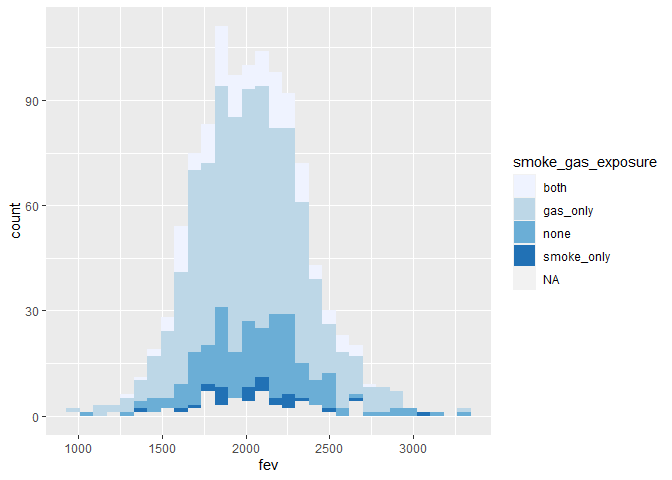
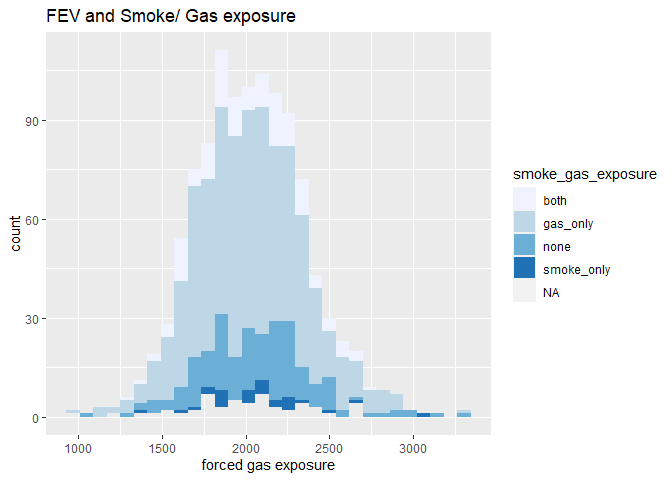
Final Commit https://github.com/USCbiostats/PM566/issues/60

diff --git a/Assignment_2/README.md b/Assignment_2/README.md
@@ -227,12 +227,14 @@ ggplot(chs, aes(x= bmi, y= fev, color= townname)) + geom_point() + facet_wrap(~ 
 
     ## Warning: Removed 95 rows containing missing values (geom_point).
 
-![](README_files/figure-gfm/unnamed-chunk-25-1.png)<!-- --> \### 2.
-Stacked Histogram of FEV by BMI category and FEV by smoke/gas exposure.
-Use different color schemes than the ggplot default.
+![](README_files/figure-gfm/unnamed-chunk-25-1.png)<!-- -->
+
+Forced air exposure is clustered around a lower BMI.
+
+### 2. Stacked Histogram of FEV by BMI category and FEV by smoke/gas exposure. Use different color schemes than the ggplot default.
 
 ``` r
-ggplot(chs, aes(x=fev, fill= obesity_level)) + geom_histogram() + scale_fill_brewer()
+ggplot(chs, aes(x=fev, fill= obesity_level)) + geom_histogram() + scale_fill_brewer() + labs( title= "FEV and BMI", x= "Forced expiratory volume")
 ```
 
     ## `stat_bin()` using `bins = 30`. Pick better value with `binwidth`.
@@ -242,7 +244,7 @@ ggplot(chs, aes(x=fev, fill= obesity_level)) + geom_histogram() + scale_fill_bre
 ![](README_files/figure-gfm/unnamed-chunk-26-1.png)<!-- -->
 
 ``` r
-ggplot(chs, aes(x=fev, fill= smoke_gas_exposure)) + geom_histogram() + scale_fill_brewer()
+ggplot(chs, aes(x=fev, fill= smoke_gas_exposure)) + geom_histogram() + scale_fill_brewer() + labs( title= "FEV and Smoke/ Gas exposure", x="forced gas exposure" )
 ```
 
     ## `stat_bin()` using `bins = 30`. Pick better value with `binwidth`.
@@ -251,15 +253,21 @@ ggplot(chs, aes(x=fev, fill= smoke_gas_exposure)) + geom_histogram() + scale_fil
 
 ![](README_files/figure-gfm/unnamed-chunk-26-2.png)<!-- -->
 
+Forced gas exposer is higher for individuals exposed to both gas and
+smoke, and are underwight.
+
 ### 3. Barchart of BMI by smoke/gas exposure.
 
 ``` r
 ggplot(chs, aes(x= obesity_level, fill= smoke_gas_exposure )) +geom_bar() + labs(title= "Obesity level by Smoke, Gas or Both", x="Obesity category", y="Count")
 ```
 
-![](README_files/figure-gfm/unnamed-chunk-27-1.png)<!-- --> \### 4.
-Statistical summary graphs of FEV by BMI and FEV by smoke/gas exposure
-category
+![](README_files/figure-gfm/unnamed-chunk-27-1.png)<!-- -->
+
+individuals with normal weight have higher smoke andgs exposure as well
+as gas only.
+
+### 4. Statistical summary graphs of FEV by BMI and FEV by smoke/gas exposure category
 
 ``` r
 ggplot(chs, aes(x= obesity_level, y= fev, fill= obesity_level))+ geom_boxplot() + labs(title= "Forced Expiratory Volume by BMI", x= "obesity catergory", y= "forced expiratory level")
@@ -277,26 +285,13 @@ ggplot(chs, aes(x=smoke_gas_exposure, y= fev, fill= smoke_gas_exposure)) + geom_
 
 ![](README_files/figure-gfm/unnamed-chunk-28-2.png)<!-- -->
 
-### A leaflet map showing the concentrations of PM2.5 mass in each of the CHS communities.
+FEV is more variedd among normal weight individuals while obese
+individuals have higher average FEV. Very little difference between FEV
+and smoke/gas exposure. Gas only has a wider spread and mor outliers
+than the others.
 
 ``` r
 library(leaflet)
-```
-
-``` r
-pm2.pal <- colorNumeric(c('darkgreen','goldenrod','brown'), domain=chs$pm25_mass)
-```
-
-``` r
-Pm25mass_map <- leaflet(chs) %>%
-      addProviderTiles('CartoDB.Positron') %>% 
-      addCircles(
-    lat = ~lat, lng=~lon,
-                                                  
-    label = ~paste0(townname), color = ~ pm2.pal(pm25_mass),
-    opacity = 1, fillOpacity = 1, radius = 500
-    ) %>% addLegend('bottomleft', pal= pm2.pal, values=chs$pm25_mass,
-          title='Concentrations.', opacity=1)
 ```
 
 ``` r
@@ -314,10 +309,43 @@ ggplot(chs, aes(x= pm25_mass, y= fev, color= townname)) + geom_point() + labs(ti
 
     ## Warning: Removed 95 rows containing missing values (geom_point).
 
-![](README_files/figure-gfm/unnamed-chunk-33-1.png)<!-- -->
+![](README_files/figure-gfm/unnamed-chunk-31-1.png)<!-- -->
+
+Pm 2.5 is concentrated between 5-10 and 19-25. Only Mira Loma has values
+above 25.
 
 ``` r
 RColorBrewer::display.brewer.all()
 ```
 
-![](README_files/figure-gfm/unnamed-chunk-34-1.png)<!-- -->
+![](README_files/figure-gfm/unnamed-chunk-32-1.png)<!-- -->
+
+``` r
+pm25 <- cut(chs$pm25_mass, 
+            breaks = c(5, 10, 20, 30), right= FALSE, 
+            labels = c("low [5-10)", "medium [10-20)", "high [20-30)"))
+```
+
+``` r
+pm2.pal <- colorFactor(palette= c('purple','goldenrod','red'), domain=chs$pm25)
+```
+
+### PM concentrations by locations
+
+``` r
+leaflet(data= chs) %>%
+      addProviderTiles('CartoDB.Positron') %>% 
+      addCircles(
+              lat =  ~lat, 
+              lng =  ~lon,
+              color = ~ pm2.pal(pm25),                                    
+              label = ~paste0("Pm concentration=", chs$pm25_mass, "type=", chs$pm25), 
+              opacity = 1, fillOpacity = 1, radius = 500
+    )
+```
+
+![](README_files/figure-gfm/unnamed-chunk-35-1.png)<!-- -->
+
+Pasadena and more inland counties have higher concentrations of Pm 2.5
+concentrations over 20. Northern counties have concentrations lower
+concentrations below 10.
